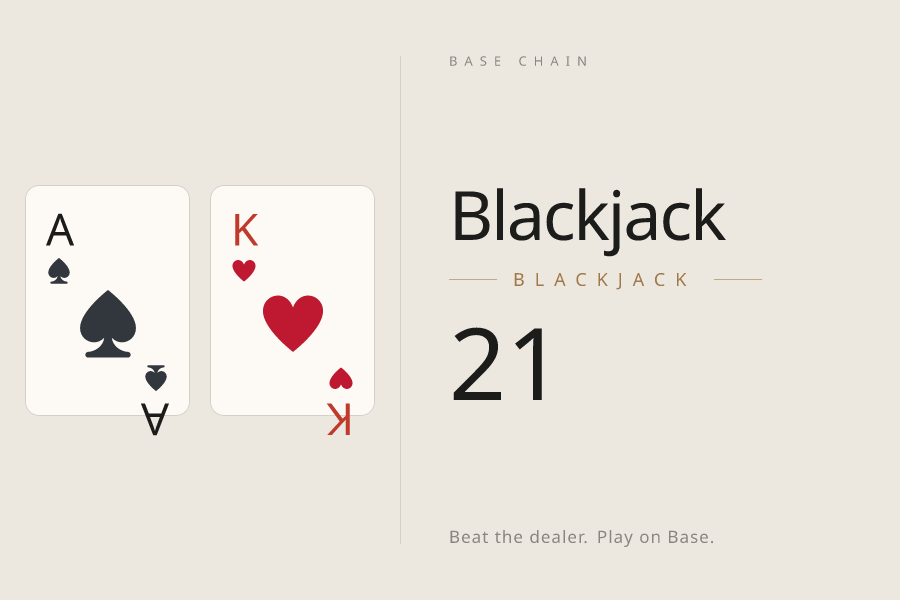
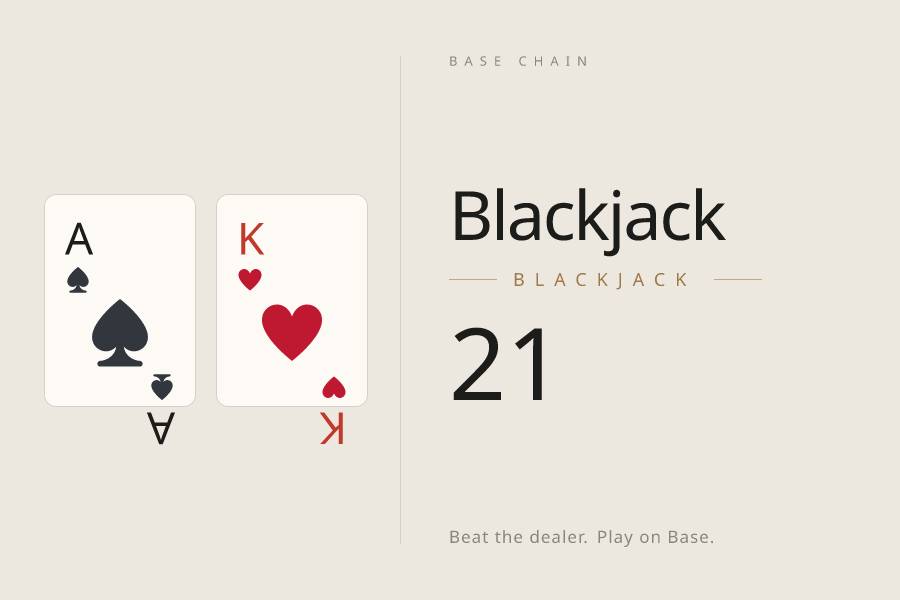
Fix embed image: add explicit left padding to prevent card clipping
Replace justifyContent:center with paddingLeft:44 so cards start clearly
inside the Farcaster frame's rounded corners. Also reduce card size
slightly (165->152px) to ensure comfortable margin all around.

diff --git a/src/app/opengraph-image/route.tsx b/src/app/opengraph-image/route.tsx
@@ -5,9 +5,9 @@ export const runtime = 'edge';
 export async function GET() {
   const W = 900;
   const H = 600;
-  const CARD_W = 165;
-  const CARD_H = 231;
-  const CARD_R = 14;
+  const CARD_W = 152;
+  const CARD_H = 213;
+  const CARD_R = 12;
 
   const SYM: Record<string, string> = { S: '♠', H: '♥', D: '♦', C: '♣' };
 
@@ -43,10 +43,11 @@ export async function GET() {
         width: W, height: H, display: 'flex',
         background: '#EDE8DF', fontFamily: 'sans-serif',
       }}>
-        {/* Left: Cards */}
+        {/* Left: Cards — explicit padding to avoid frame clipping */}
         <div style={{
           display: 'flex', width: 400,
-          alignItems: 'center', justifyContent: 'center',
+          alignItems: 'center',
+          paddingLeft: 44, paddingRight: 16,
         }}>
           <div style={{ display: 'flex', gap: 20 }}>
             <Card rank="A" suit="S" />
